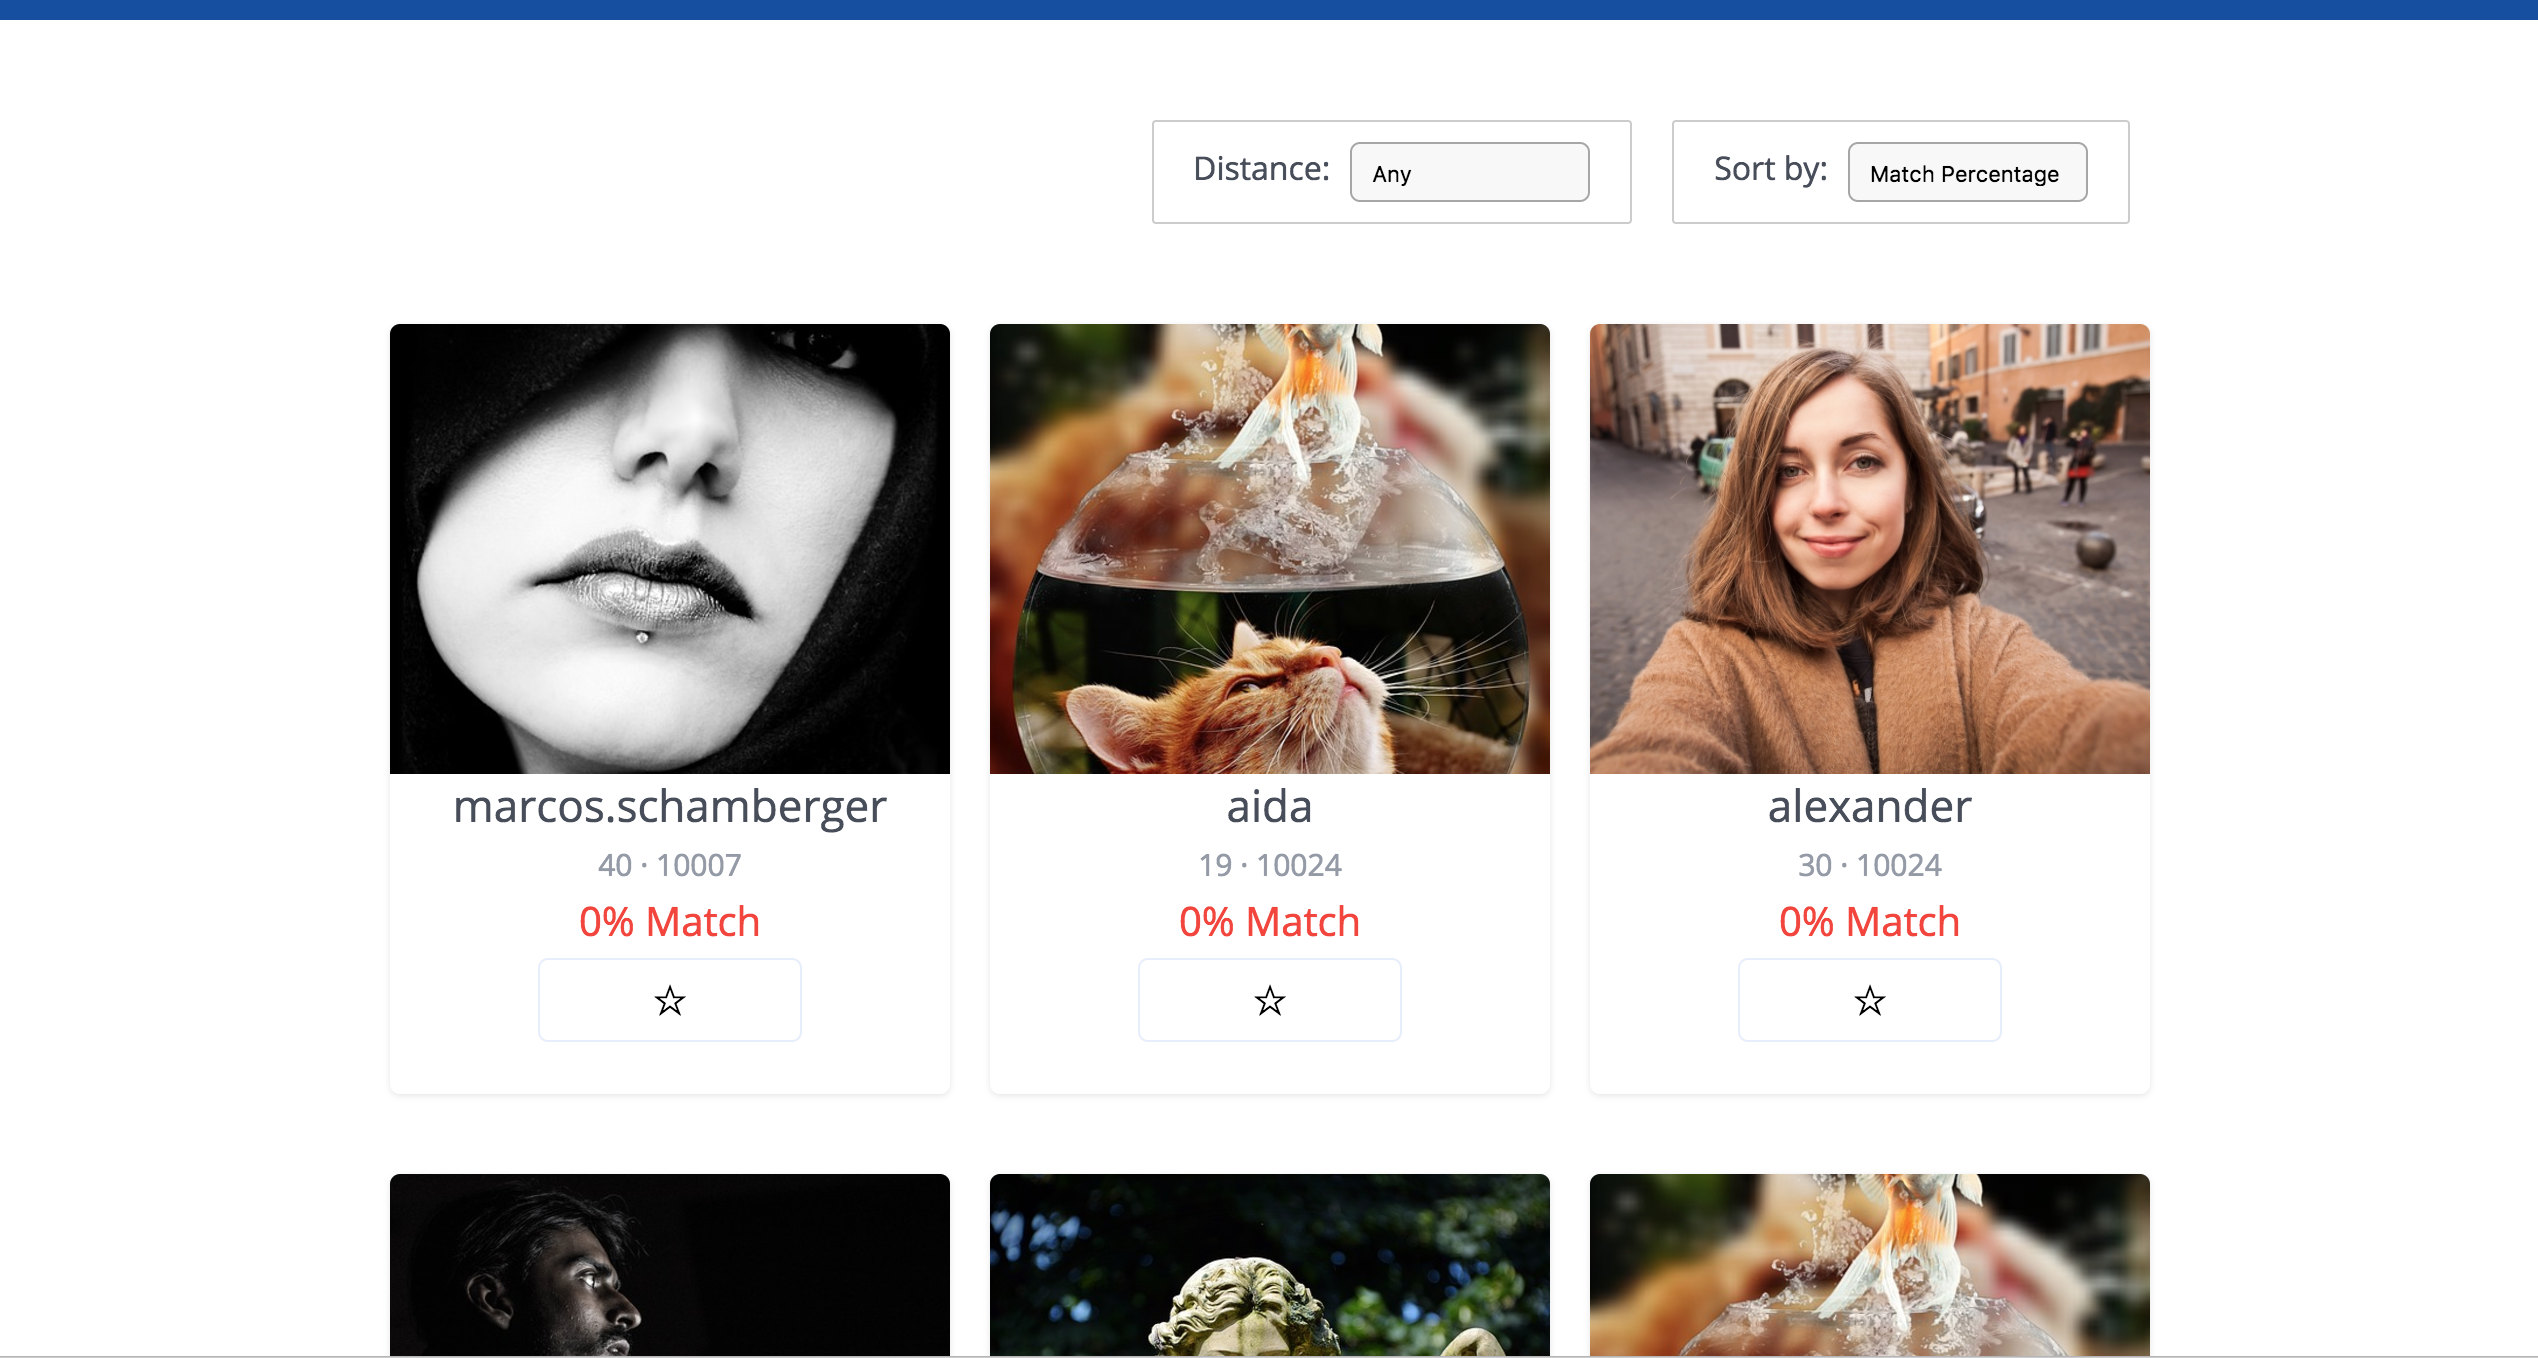
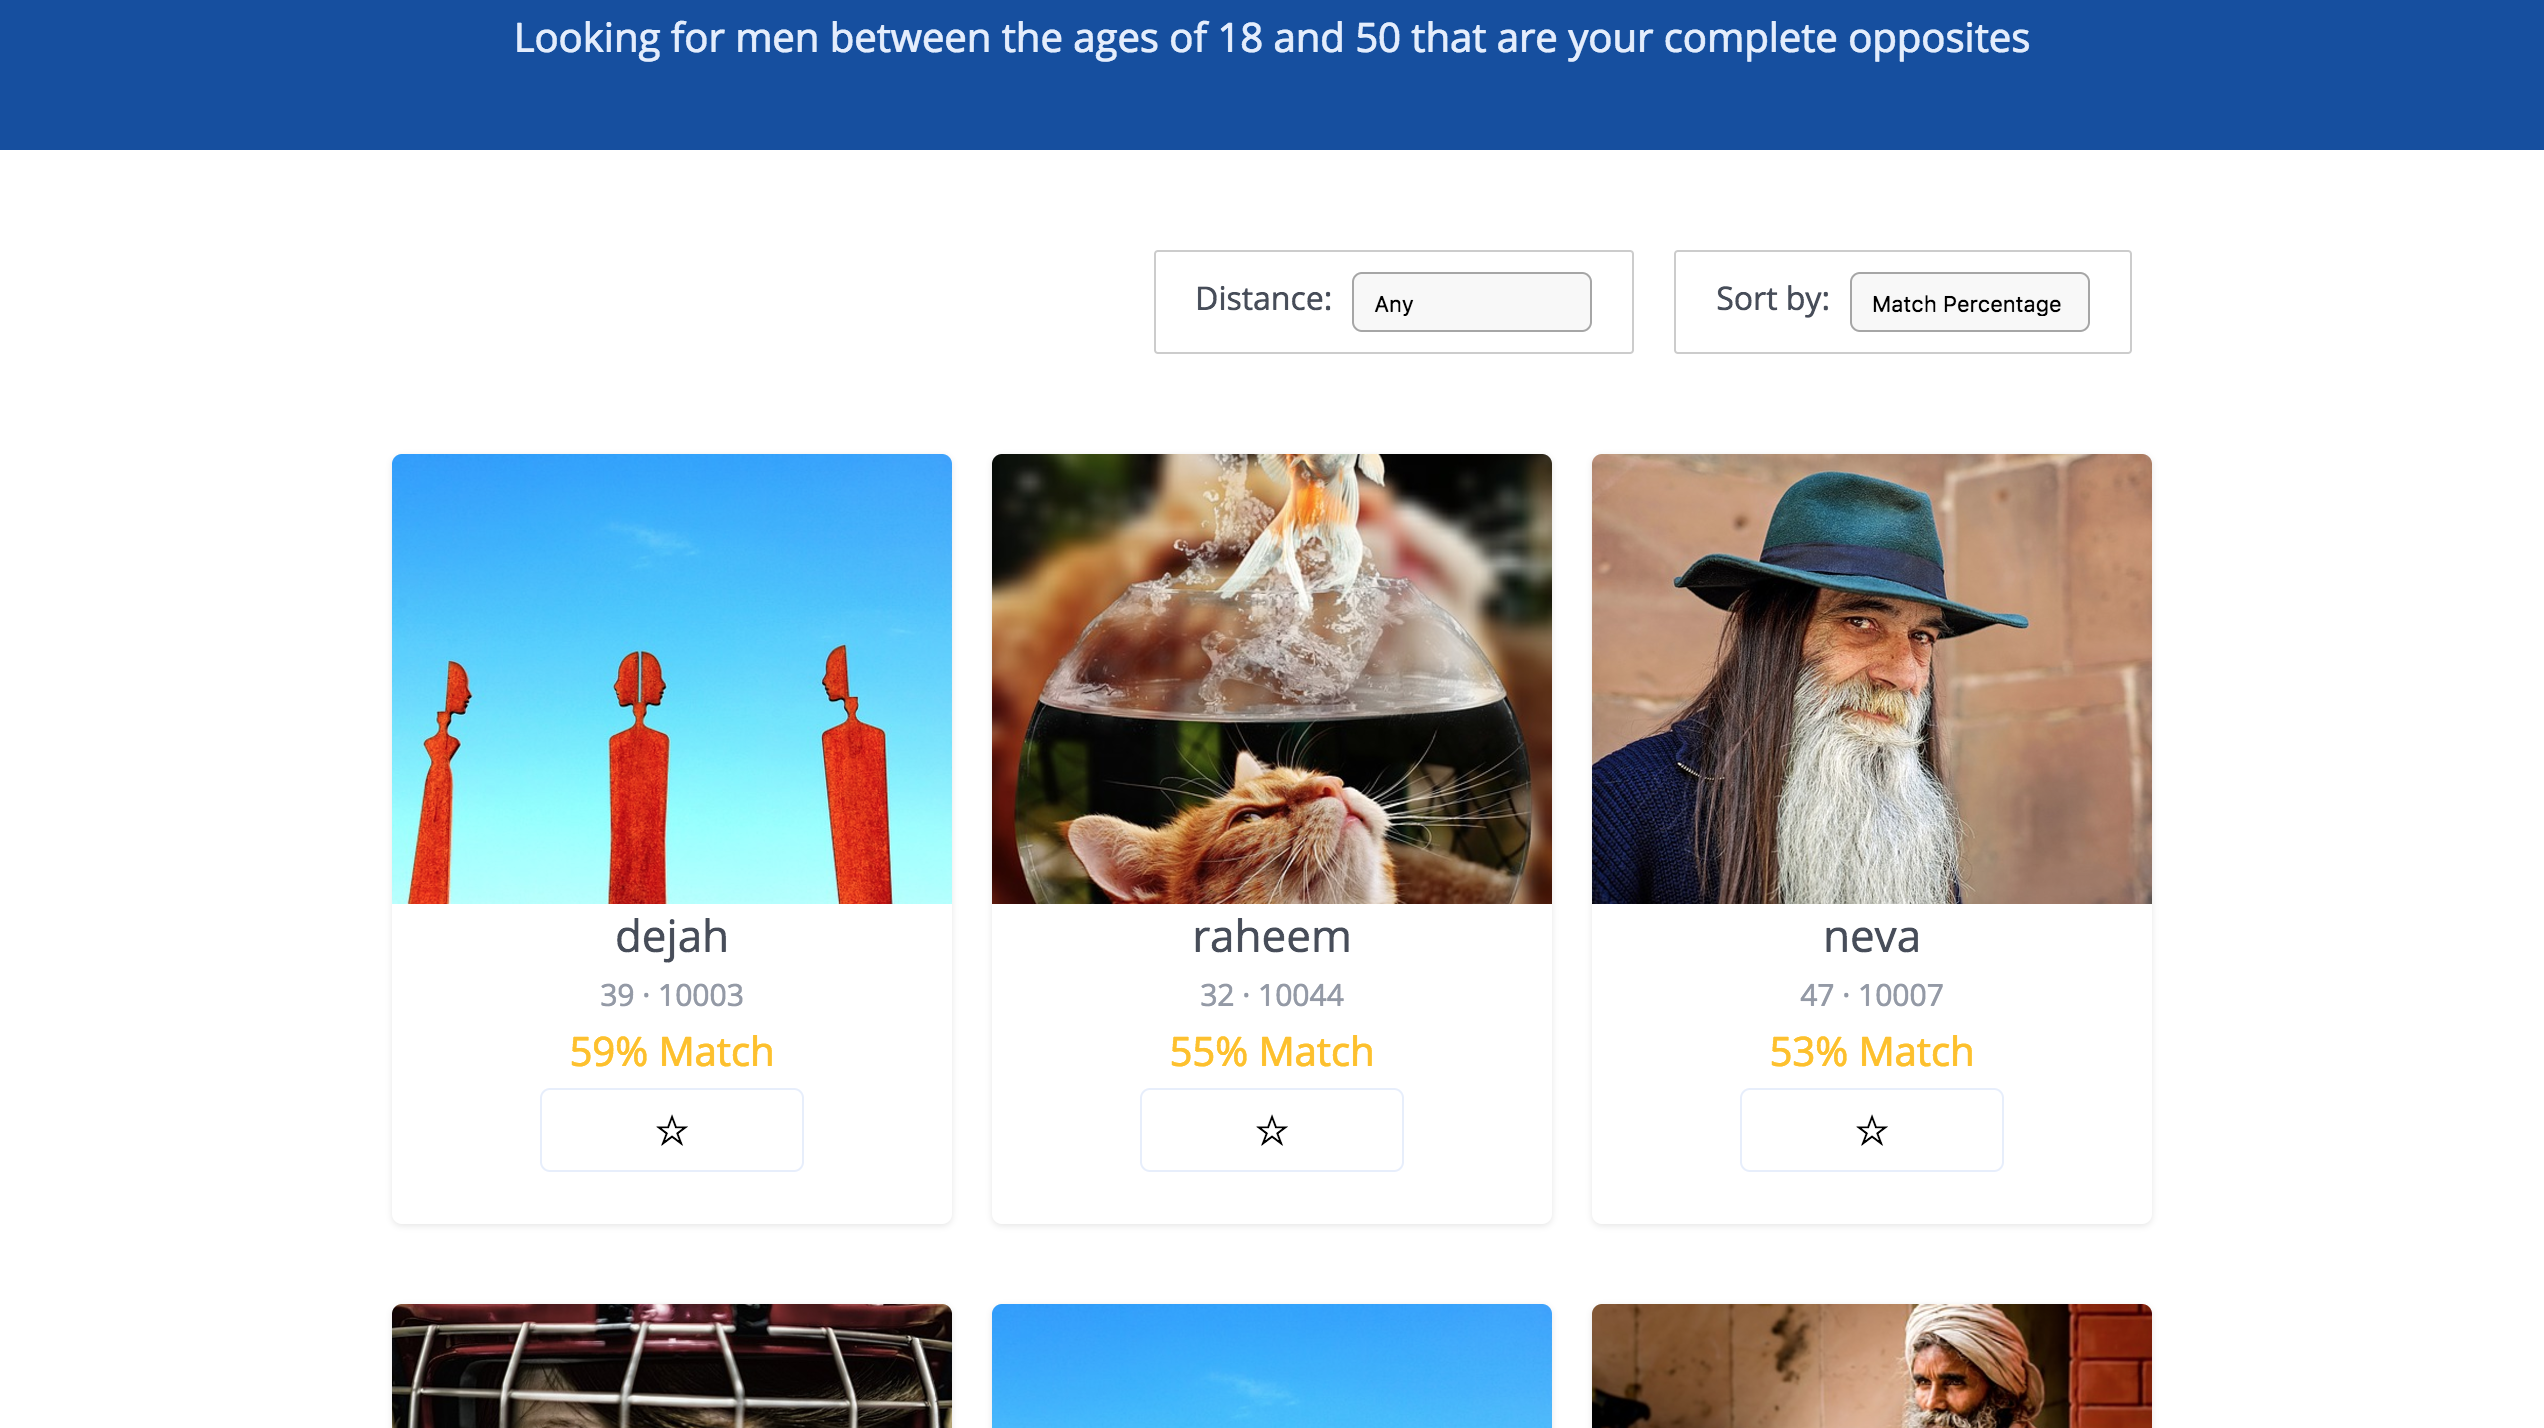
Change picture in README

diff --git a/README.md b/README.md
@@ -14,7 +14,7 @@ NotOKCupid is a full-stack web application inspired by OKCupid, with a twist.  N
 
 ### User CRUD (minus the D)
 
-Users that navigate to NotOKCupid are prompted by an easy to follow log in/sign up page in which they can walk through the steps to find love (or not).  For existing users, the sign in button in the top right prompts a log in modal to render on the screen.  After logging in, users are directed to the browse page (more information below).  For users looking to sign up, they may choose a gender and sexuality, followed by some general information about themselves including their age and location.  Last but not least, they are able to choose a username and password (a unique username and password greater than 6 characters, obviously).  From that point on, users are directed to the profile page to fill out information to improve their match percentages. 
+Users that navigate to NotOKCupid are prompted by an easy to follow log in/sign up page in which they can walk through the steps to find love (or not).  For existing users, the sign in button in the top right prompts a log in modal to render on the screen.  After logging in, users are directed to the browse page (more information below).  For users looking to sign up, they may choose a gender and sexuality, followed by some general information about themselves including their age and location.  Last but not least, they are able to choose a username and password (a unique username and password greater than 6 characters, obviously).  From that point on, users are directed to the profile page to fill out information to improve their match percentages.
 
 ### Profile Page
 
@@ -42,7 +42,7 @@ On the messages page, users can view all of their received and sent converations
 
 ![Alt text](/app/assets/images/browse_page.png)
 
-The main page of the project, where users are directed after log in, is the browse page.  On this page, users are displayed their matches.  They can set a distance to search users by, as well as a sorting method.  The page opens with matches sorted by match percentage, but users can also choose to sort by username and age.  **Please disregard the pictures of young people in the screenshot, as they are just random seeds pulled from the internet!**  Users must, in fact, be over 18 years old to sign up.
+The main page of the project, where users are directed after log in, is the browse page.  On this page, users are displayed their matches.  They can set a distance to search users by, as well as a sorting method.  The page opens with matches sorted by match percentage, but users can also choose to sort by username and age. 
 
 
 ## Future Directions for the Project
